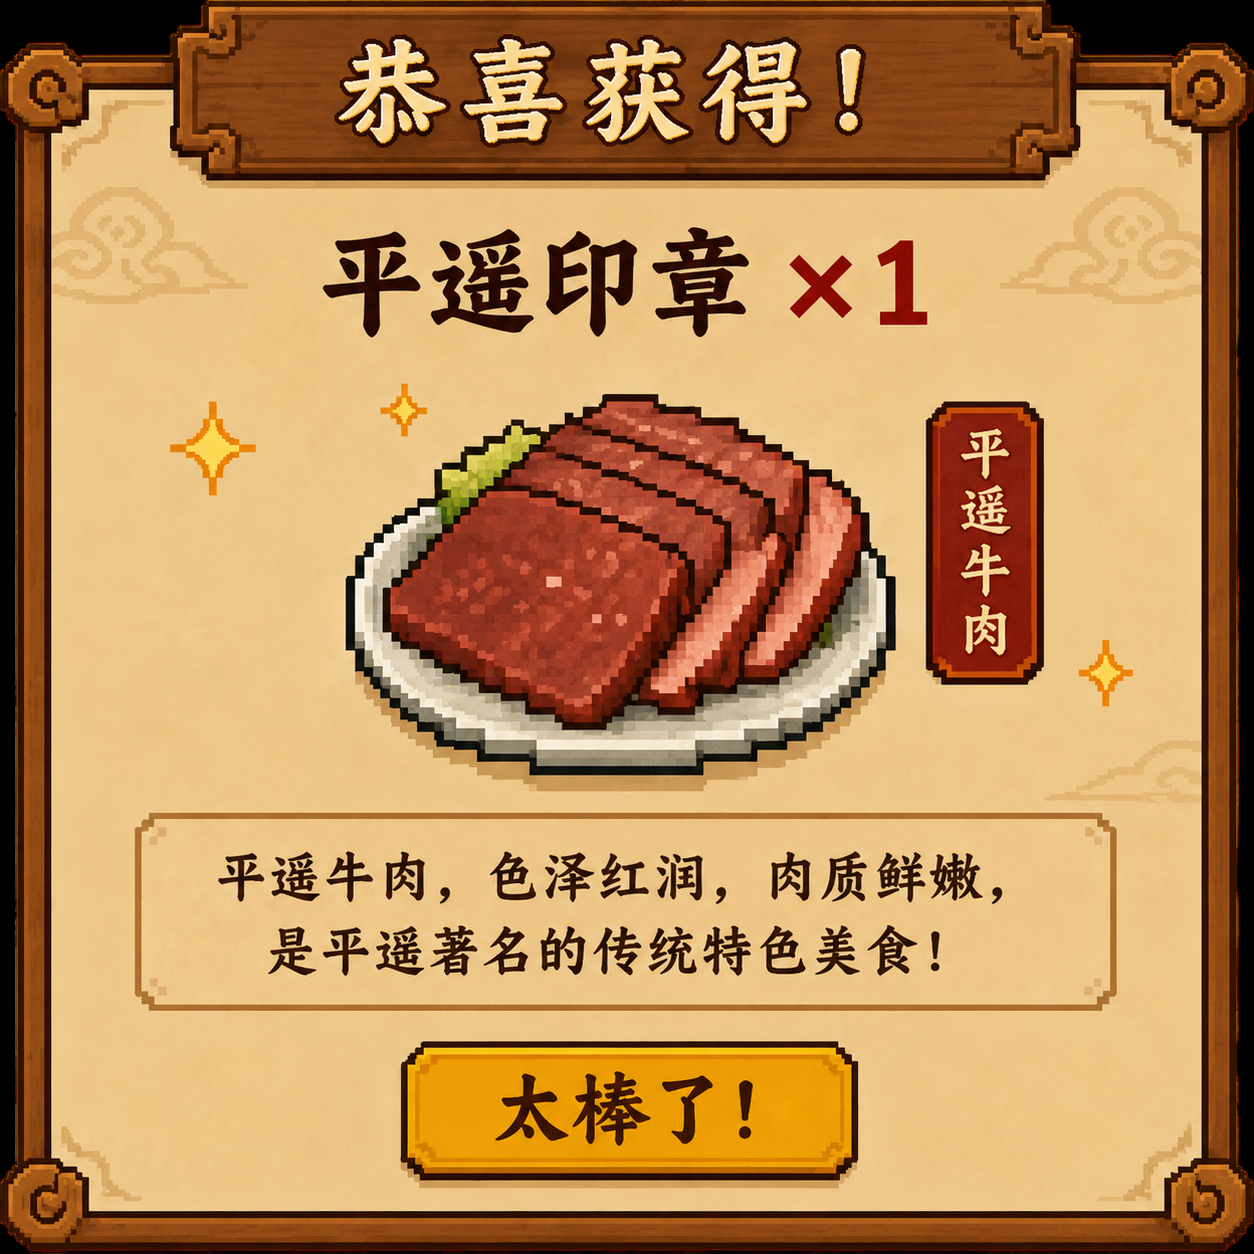
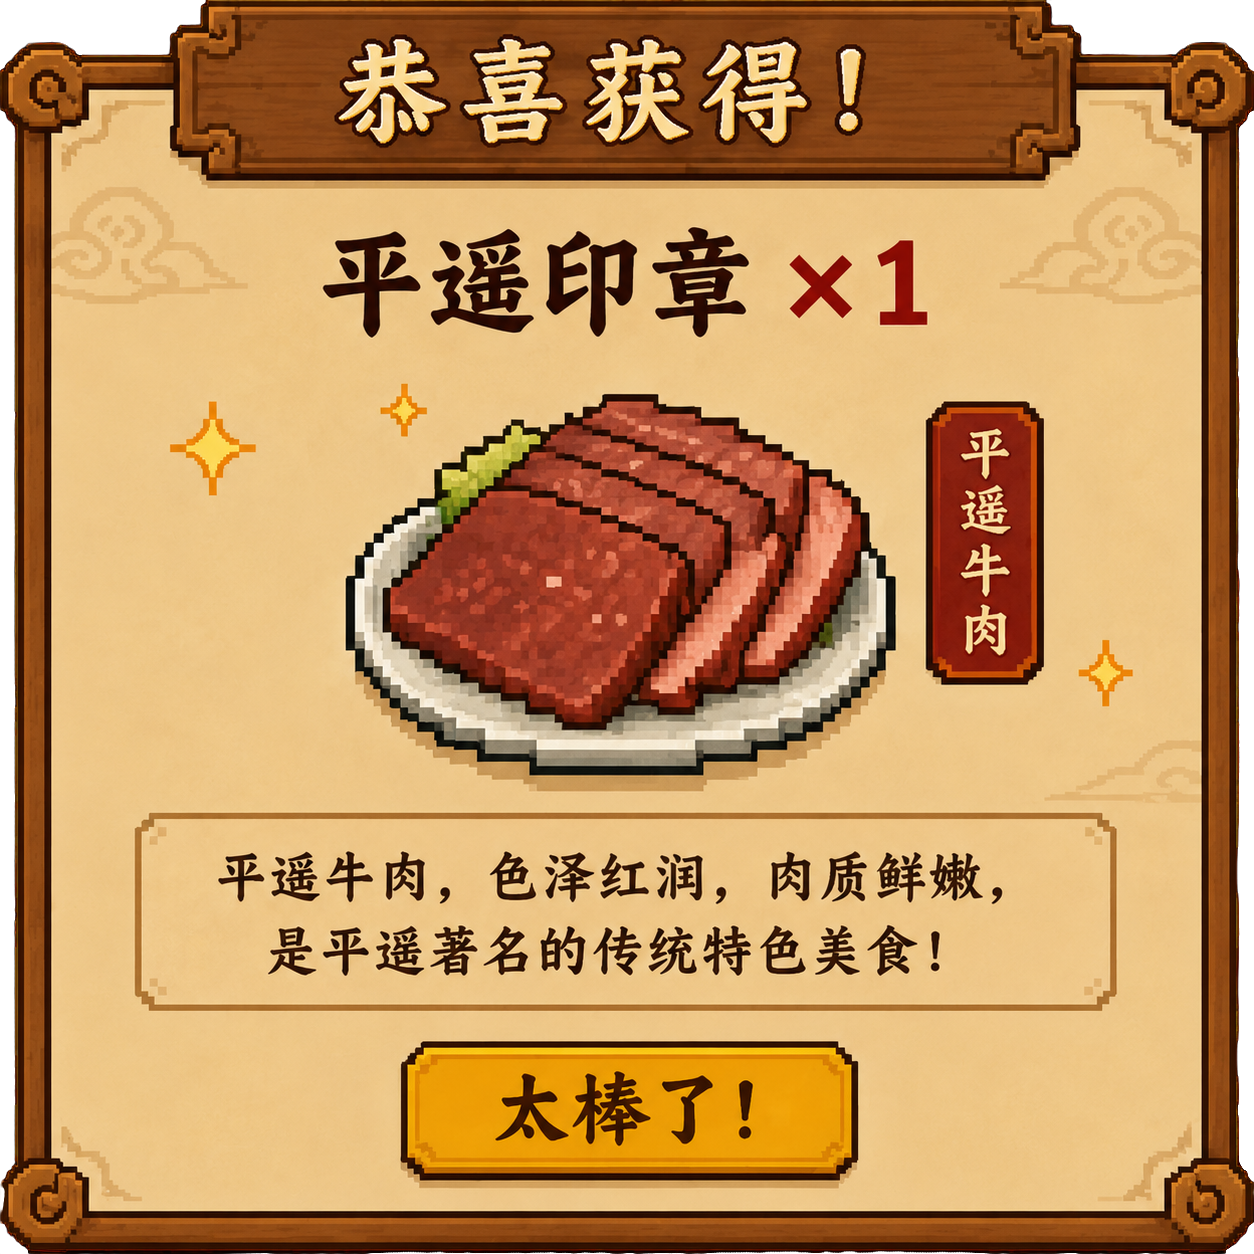
修复首页进入游戏

diff --git a/assets/main/index.js b/assets/main/index.js
@@ -6,7 +6,7 @@ System.register("chunks:///_virtual/GameModeManager.ts",["cc"],(function(e){var 
 
 System.register("chunks:///_virtual/main",["./AudioManager.ts","./DiceController.ts","./GameModeManager.ts","./MainMenuController.ts","./PathPointGenerator.ts","./PlayerController.ts","./QuestionPanelController.ts","./RewardManager.ts","./ScenicPanelController.ts","./StampPanelController.ts","./TileEventManager.ts","./WinPanelController.ts"],(function(){return{setters:[null,null,null,null,null,null,null,null,null,null,null,null],execute:function(){}}}));
 
-System.register("chunks:///_virtual/MainMenuController.ts",["./rollupPluginModLoBabelHelpers.js","cc","./GameModeManager.ts","./AudioManager.ts"],(function(e){var n,t,o,a,i,r,l,d,c,s,p,u,f,g,m,h,y,b,x,v,C,w,S,M,z,E,L,k;return{setters:[function(e){n=e.applyDecoratedDescriptor,t=e.inheritsLoose,o=e.initializerDefineProperty,a=e.assertThisInitialized,i=e.asyncToGenerator,r=e.regeneratorRuntime},function(e){l=e.cclegacy,d=e._decorator,c=e.SpriteFrame,s=e.view,p=e.macro,u=e.ResolutionPolicy,f=e.Node,g=e.UITransform,m=e.Sprite,h=e.Color,y=e.Graphics,b=e.Vec3,x=e.Label,v=e.HorizontalTextAlignment,C=e.VerticalTextAlignment,w=e.Button,S=e.director,M=e.game,z=e.Component},function(e){E=e.GameMode,L=e.GameModeManager},function(e){k=e.AudioManager}],execute:function(){var T,A,F,G,N;l._RF.push({},"1a2b3xNXm9HiYq83vASNFZ4","MainMenuController",void 0);var R=d.ccclass,B=d.property;e("MainMenuController",(T=R("MainMenuController"),A=B(c),T((N=n((G=function(e){function n(){for(var n,t=arguments.length,i=new Array(t),r=0;r<t;r++)i[r]=arguments[r];return n=e.call.apply(e,[this].concat(i))||this,o(n,"backgroundSpriteFrame",N,a(n)),n}t(n,e);var l=n.prototype;return l.onLoad=function(){this.enableLandscapeMode(),k.ensure(),this.buildMenu()},l.enableLandscapeMode=function(){var e;if(s.setOrientation(p.ORIENTATION_LANDSCAPE),s.setDesignResolutionSize(1280,720,u.SHOW_ALL),"undefined"!=typeof window&&"undefined"!=typeof document&&!document.getElementById("pingyao-landscape-guard")){var n=document.createElement("div");n.id="pingyao-landscape-guard",n.innerHTML='\n            <div class="pingyao-rotate-icon">↻</div>\n            <div class="pingyao-rotate-title">请将手机横过来</div>\n            <div class="pingyao-rotate-tip">横屏游玩，探索平遥古城</div>\n            <button id="pingyao-landscape-button">横屏开始游戏</button>\n        ';var t=document.createElement("style");t.id="pingyao-landscape-style",t.textContent='\n            #pingyao-landscape-guard {\n                position: fixed; inset: 0; z-index: 2147483647;\n                display: none; align-items: center; justify-content: center;\n                flex-direction: column; box-sizing: border-box; padding: 28px;\n                color: #4b260d; text-align: center;\n                background: radial-gradient(circle at center, #ffe7a8 0%, #e4ae55 72%, #7d421c 100%);\n                font-family: "Microsoft YaHei", "PingFang SC", sans-serif;\n            }\n            #pingyao-landscape-guard::before {\n                content: ""; position: absolute; inset: 18px;\n                border: 7px solid #74380f; border-radius: 22px;\n                box-shadow: inset 0 0 0 3px #f6cc72, 0 5px 16px rgba(0,0,0,.35);\n                pointer-events: none;\n            }\n            .pingyao-rotate-icon { font-size: 72px; line-height: 1; font-weight: bold; }\n            .pingyao-rotate-title { margin-top: 10px; font-size: 30px; font-weight: 700; }\n            .pingyao-rotate-tip { margin-top: 10px; font-size: 17px; }\n            #pingyao-landscape-button {\n                margin-top: 26px; min-width: 210px; padding: 13px 24px;\n                border: 3px solid #efc15c; border-radius: 14px;\n                color: #fff3cf; background: #963522; font-size: 20px;\n                font-weight: 700; box-shadow: 0 4px 0 #55210f;\n            }\n            @media (orientation: portrait) and (max-width: 900px) {\n                #pingyao-landscape-guard { display: flex; }\n            }\n        ',document.head.appendChild(t),document.body.appendChild(n);var o=function(){var e=i(r().mark((function e(){var n;return r().wrap((function(e){for(;;)switch(e.prev=e.next){case 0:if(e.prev=0,document.fullscreenElement||!document.documentElement.requestFullscreen){e.next=4;break}return e.next=4,document.documentElement.requestFullscreen();case 4:e.next=8;break;case 6:e.prev=6,e.t0=e.catch(0);case 8:return e.prev=8,n=screen.orientation,e.next=12,null==n||null==n.lock?void 0:n.lock("landscape");case 12:e.next=16;break;case 14:e.prev=14,e.t1=e.catch(8);case 16:case"end":return e.stop()}}),e,null,[[0,6],[8,14]])})));return function(){return e.apply(this,arguments)}}();null==(e=document.getElementById("pingyao-landscape-button"))||e.addEventListener("click",(function(){o()})),document.addEventListener("pointerup",(function(){window.innerWidth>window.innerHeight&&o()}),{once:!0})}},l.buildMenu=function(){var e=this,n=new f("Background");n.layer=this.node.layer,n.parent=this.node,n.setSiblingIndex(0),n.addComponent(g).setContentSize(1280,720);var t=n.addComponent(m);t.spriteFrame=this.backgroundSpriteFrame,t.sizeMode=m.SizeMode.CUSTOM,t.color=new h(105,92,72,255);var o=new f("Shade");o.layer=this.node.layer,o.parent=this.node,o.addComponent(g).setContentSize(1280,720);var a=o.addComponent(y);a.fillColor=new h(20,12,6,145),a.rect(-640,-360,1280,720),a.fill(),this.createLabel("TitleLabel","平遥古城文化探索之旅",52,new b(0,210,0),new h(255,239,190,255)),this.createLabel("SubtitleLabel","踏上古城漫游之路 · 收集平遥文化印章",22,new b(0,150,0),new h(240,222,180,255)),this.createButton("单人闯关",55,(function(){return e.startGame(E.Single)})),this.createButton("双人对局",-35,(function(){return e.startGame(E.Double)})),this.createButton("退出游戏",-125,(function(){return e.exitGame()})),this.createLabel("FooterLabel","平遥古城文化宣传飞行棋",18,new b(0,-300,0),new h(220,204,168,230))},l.createLabel=function(e,n,t,o,a){var i=new f(e);i.layer=this.node.layer,i.parent=this.node,i.setPosition(o),i.addComponent(g).setContentSize(1e3,t+20);var r=i.addComponent(x);return r.string=n,r.fontSize=t,r.lineHeight=t+8,r.color=a,r.horizontalAlign=v.CENTER,r.verticalAlign=C.CENTER,r.enableWrapText=!1,r},l.createButton=function(e,n,t){var o=new f(e+"Button");o.layer=this.node.layer,o.parent=this.node,o.setPosition(0,n,0),o.addComponent(g).setContentSize(300,68);var a=o.addComponent(y);a.fillColor=new h(139,51,35,245),a.strokeColor=new h(244,205,121,255),a.lineWidth=3,a.roundRect(-150,-34,300,68,14),a.fill(),a.stroke();var i=o.addComponent(w);i.transition=w.Transition.SCALE,i.zoomScale=.94,o.on(f.EventType.TOUCH_END,t,this);var r=new f("Label");r.layer=this.node.layer,r.parent=o,r.addComponent(g).setContentSize(280,60);var l=r.addComponent(x);l.string=e,l.fontSize=30,l.lineHeight=36,l.color=new h(255,244,211,255),l.horizontalAlign=v.CENTER,l.verticalAlign=C.CENTER},l.startGame=function(e){k.playClick(),L.setMode(e),S.loadScene("Game")},l.exitGame=function(){k.playClick(),M.end()},n}(z)).prototype,"backgroundSpriteFrame",[A],{configurable:!0,enumerable:!0,writable:!0,initializer:function(){return null}}),F=G))||F));l._RF.pop()}}}));
+System.register("chunks:///_virtual/MainMenuController.ts",["./rollupPluginModLoBabelHelpers.js","cc","./GameModeManager.ts","./AudioManager.ts"],(function(e){var n,t,a,i,o,r,l,d,s,c,p,u,g,f,m,h,b,y,v,x,C,w,L,S,M,z,E,k;return{setters:[function(e){n=e.applyDecoratedDescriptor,t=e.inheritsLoose,a=e.initializerDefineProperty,i=e.assertThisInitialized,o=e.asyncToGenerator,r=e.regeneratorRuntime},function(e){l=e.cclegacy,d=e._decorator,s=e.SpriteFrame,c=e.view,p=e.macro,u=e.ResolutionPolicy,g=e.Node,f=e.UITransform,m=e.Sprite,h=e.Color,b=e.Graphics,y=e.Vec3,v=e.Label,x=e.HorizontalTextAlignment,C=e.VerticalTextAlignment,w=e.Button,L=e.director,S=e.game,M=e.Component},function(e){z=e.GameMode,E=e.GameModeManager},function(e){k=e.AudioManager}],execute:function(){var T,G,A,F,N;l._RF.push({},"1a2b3xNXm9HiYq83vASNFZ4","MainMenuController",void 0);var R=d.ccclass,B=d.property;e("MainMenuController",(T=R("MainMenuController"),G=B(s),T((N=n((F=function(e){function n(){for(var n,t=arguments.length,o=new Array(t),r=0;r<t;r++)o[r]=arguments[r];return n=e.call.apply(e,[this].concat(o))||this,a(n,"backgroundSpriteFrame",N,i(n)),n.loadingLabel=null,n.isStartingGame=!1,n}t(n,e);var l=n.prototype;return l.onLoad=function(){this.enableLandscapeMode(),k.ensure(),this.buildMenu()},l.enableLandscapeMode=function(){var e;if(c.setOrientation(p.ORIENTATION_LANDSCAPE),c.setDesignResolutionSize(1280,720,u.SHOW_ALL),"undefined"!=typeof window&&"undefined"!=typeof document&&!document.getElementById("pingyao-landscape-guard")){var n=document.createElement("div");n.id="pingyao-landscape-guard",n.innerHTML='\n            <div class="pingyao-rotate-icon">↻</div>\n            <div class="pingyao-rotate-title">请将手机横过来</div>\n            <div class="pingyao-rotate-tip">横屏游玩，探索平遥古城</div>\n            <button id="pingyao-landscape-button">横屏开始游戏</button>\n        ';var t=document.createElement("style");t.id="pingyao-landscape-style",t.textContent='\n            #pingyao-landscape-guard {\n                position: fixed; inset: 0; z-index: 2147483647;\n                display: none; align-items: center; justify-content: center;\n                flex-direction: column; box-sizing: border-box; padding: 28px;\n                color: #4b260d; text-align: center;\n                background: radial-gradient(circle at center, #ffe7a8 0%, #e4ae55 72%, #7d421c 100%);\n                font-family: "Microsoft YaHei", "PingFang SC", sans-serif;\n            }\n            #pingyao-landscape-guard::before {\n                content: ""; position: absolute; inset: 18px;\n                border: 7px solid #74380f; border-radius: 22px;\n                box-shadow: inset 0 0 0 3px #f6cc72, 0 5px 16px rgba(0,0,0,.35);\n                pointer-events: none;\n            }\n            .pingyao-rotate-icon { font-size: 72px; line-height: 1; font-weight: bold; }\n            .pingyao-rotate-title { margin-top: 10px; font-size: 30px; font-weight: 700; }\n            .pingyao-rotate-tip { margin-top: 10px; font-size: 17px; }\n            #pingyao-landscape-button {\n                margin-top: 26px; min-width: 210px; padding: 13px 24px;\n                border: 3px solid #efc15c; border-radius: 14px;\n                color: #fff3cf; background: #963522; font-size: 20px;\n                font-weight: 700; box-shadow: 0 4px 0 #55210f;\n            }\n            @media (orientation: portrait) and (max-width: 900px) {\n                #pingyao-landscape-guard { display: flex; }\n            }\n        ',document.head.appendChild(t),document.body.appendChild(n);var a=function(){var e=o(r().mark((function e(){var n;return r().wrap((function(e){for(;;)switch(e.prev=e.next){case 0:if(e.prev=0,document.fullscreenElement||!document.documentElement.requestFullscreen){e.next=4;break}return e.next=4,document.documentElement.requestFullscreen();case 4:e.next=8;break;case 6:e.prev=6,e.t0=e.catch(0);case 8:return e.prev=8,n=screen.orientation,e.next=12,null==n||null==n.lock?void 0:n.lock("landscape");case 12:e.next=16;break;case 14:e.prev=14,e.t1=e.catch(8);case 16:case"end":return e.stop()}}),e,null,[[0,6],[8,14]])})));return function(){return e.apply(this,arguments)}}();null==(e=document.getElementById("pingyao-landscape-button"))||e.addEventListener("click",(function(){a()})),document.addEventListener("pointerup",(function(){window.innerWidth>window.innerHeight&&a()}),{once:!0})}},l.buildMenu=function(){var e=this,n=new g("Background");n.layer=this.node.layer,n.parent=this.node,n.setSiblingIndex(0),n.addComponent(f).setContentSize(1280,720);var t=n.addComponent(m);t.spriteFrame=this.backgroundSpriteFrame,t.sizeMode=m.SizeMode.CUSTOM,t.color=new h(105,92,72,255);var a=new g("Shade");a.layer=this.node.layer,a.parent=this.node,a.addComponent(f).setContentSize(1280,720);var i=a.addComponent(b);i.fillColor=new h(20,12,6,145),i.rect(-640,-360,1280,720),i.fill(),this.createLabel("TitleLabel","平遥古城文化探索之旅",52,new y(0,210,0),new h(255,239,190,255)),this.createLabel("SubtitleLabel","踏上古城漫游之路 · 收集平遥文化印章",22,new y(0,150,0),new h(240,222,180,255)),this.createButton("单人闯关",55,(function(){return e.startGame(z.Single)})),this.createButton("双人对局",-35,(function(){return e.startGame(z.Double)})),this.createButton("退出游戏",-125,(function(){return e.exitGame()})),this.createLabel("FooterLabel","平遥古城文化宣传飞行棋",18,new y(0,-300,0),new h(220,204,168,230))},l.createLabel=function(e,n,t,a,i){var o=new g(e);o.layer=this.node.layer,o.parent=this.node,o.setPosition(a),o.addComponent(f).setContentSize(1e3,t+20);var r=o.addComponent(v);return r.string=n,r.fontSize=t,r.lineHeight=t+8,r.color=i,r.horizontalAlign=x.CENTER,r.verticalAlign=C.CENTER,r.enableWrapText=!1,r},l.createButton=function(e,n,t){var a=new g(e+"Button");a.layer=this.node.layer,a.parent=this.node,a.setPosition(0,n,0),a.addComponent(f).setContentSize(300,68);var i=a.addComponent(b);i.fillColor=new h(139,51,35,245),i.strokeColor=new h(244,205,121,255),i.lineWidth=3,i.roundRect(-150,-34,300,68,14),i.fill(),i.stroke();var o=a.addComponent(w);o.transition=w.Transition.SCALE,o.zoomScale=.94,a.on(g.EventType.TOUCH_END,t,this);var r=new g("Label");r.layer=this.node.layer,r.parent=a,r.addComponent(f).setContentSize(280,60);var l=r.addComponent(v);l.string=e,l.fontSize=30,l.lineHeight=36,l.color=new h(255,244,211,255),l.horizontalAlign=x.CENTER,l.verticalAlign=C.CENTER},l.startGame=function(e){var n=this;this.isStartingGame||(this.isStartingGame=!0,k.playClick(),E.setMode(e),this.loadingLabel||(this.loadingLabel=this.createLabel("LoadingLabel","正在加载游戏…",22,new y(0,-215,0),new h(255,232,171,255))),this.loadingLabel.string="正在加载游戏… 0%",this.loadingLabel.node.active=!0,L.preloadScene("Game",(function(e,t){var a,i=t>0?Math.min(100,Math.round(e/t*100)):0;null!=(a=n.loadingLabel)&&a.isValid&&(n.loadingLabel.string="正在加载游戏… "+i+"%")}),(function(e){var t;if(e)return console.error("Game scene preload failed:",e),n.isStartingGame=!1,void(null!=(t=n.loadingLabel)&&t.isValid&&(n.loadingLabel.string="加载失败，请检查网络后重试"));L.loadScene("Game")})))},l.exitGame=function(){k.playClick(),S.end()},n}(M)).prototype,"backgroundSpriteFrame",[G],{configurable:!0,enumerable:!0,writable:!0,initializer:function(){return null}}),A=F))||A));l._RF.pop()}}}));
 
 System.register("chunks:///_virtual/PathPointGenerator.ts",["./rollupPluginModLoBabelHelpers.js","cc"],(function(e){var t,i,r,n,o,a,s,l,c,h,u,P,f;return{setters:[function(e){t=e.applyDecoratedDescriptor,i=e.inheritsLoose,r=e.createForOfIteratorHelperLoose,n=e.initializerDefineProperty,o=e.assertThisInitialized},function(e){a=e.cclegacy,s=e._decorator,l=e.Node,c=e.Layers,h=e.UITransform,u=e.Label,P=e.Color,f=e.Component}],execute:function(){var p,d,g,y,m,v,M;a._RF.push({},"7832ayBA1NBwJUAtOaWuM8i","PathPointGenerator",void 0);var k=s.ccclass,b=s.executeInEditMode,_=s.property;e("PathPointGenerator",k("PathPointGenerator")(p=b(!0)((g=t((d=function(e){function t(){for(var t,i=arguments.length,r=new Array(i),a=0;a<i;a++)r[a]=arguments[a];return t=e.call.apply(e,[this].concat(r))||this,n(t,"generatePoints",g,o(t)),n(t,"showMarkers",y,o(t)),n(t,"hideMarkers",m,o(t)),n(t,"clearPoints",v,o(t)),n(t,"fixPointPositions",M,o(t)),t}i(t,e);var a=t.prototype;return a.update=function(){this.generatePoints&&(this.generatePoints=!1,this.createPoints()),this.showMarkers&&(this.showMarkers=!1,this.setMarkersVisible(!0)),this.hideMarkers&&(this.hideMarkers=!1,this.setMarkersVisible(!1)),this.clearPoints&&(this.clearPoints=!1,this.removePoints()),this.fixPointPositions&&(this.fixPointPositions=!1,this.applyMarkerPositionsToPoints())},a.createPoints=function(){if(this.node.children.some((function(e){return e.name.startsWith("Point_")})))console.warn("路线节点已经存在，不再重复生成。");else{for(var e=1;e<=74;e++){var t=e.toString().padStart(2,"0"),i=new l("Point_"+t);i.layer=c.Enum.UI_2D,i.setParent(this.node),i.setPosition(0,0,0),i.addComponent(h).setContentSize(50,50),this.createMarker(i,e)}console.log("Point_01 ~ Point_73 已生成完成。")}},a.createMarker=function(e,t){var i=e.getChildByName("Marker");if(!i){(i=new l("Marker")).layer=c.Enum.UI_2D,i.setParent(e),i.setPosition(0,0,0),i.addComponent(h).setContentSize(60,40);var r=i.addComponent(u);r.string=t.toString(),r.fontSize=28,r.lineHeight=32,r.color=new P(255,0,0,255),r.horizontalAlign=u.HorizontalAlign.CENTER,r.verticalAlign=u.VerticalAlign.CENTER}i.active=!0},a.setMarkersVisible=function(e){for(var t,i=r(this.node.children);!(t=i()).done;){var n=t.value;if(n.name.startsWith("Point_")){n.layer=c.Enum.UI_2D;var o=n.name.replace("Point_",""),a=parseInt(o),s=n.getChildByName("Marker");!s&&e&&(this.createMarker(n,a),s=n.getChildByName("Marker")),s&&(s.layer=c.Enum.UI_2D,s.active=e)}}console.log(e?"定位编号已显示。":"定位编号已隐藏。")},a.removePoints=function(){for(var e,t=this.node.children.filter((function(e){return e.name.startsWith("Point_")})),i=r(t);!(e=i()).done;){e.value.destroy()}console.log("路线节点已全部删除。")},a.applyMarkerPositionsToPoints=function(){for(var e,t=r(this.node.children);!(e=t()).done;){var i=e.value;if(i.name.startsWith("Point_")){var n=i.getChildByName("Marker");if(n){var o=n.position;i.setPosition(i.position.x+o.x,i.position.y+o.y,0),n.setPosition(0,0,0)}}}console.log("Point_01 ~ Point_74 路线坐标已修正。")},t}(f)).prototype,"generatePoints",[_],{configurable:!0,enumerable:!0,writable:!0,initializer:function(){return!1}}),y=t(d.prototype,"showMarkers",[_],{configurable:!0,enumerable:!0,writable:!0,initializer:function(){return!1}}),m=t(d.prototype,"hideMarkers",[_],{configurable:!0,enumerable:!0,writable:!0,initializer:function(){return!1}}),v=t(d.prototype,"clearPoints",[_],{configurable:!0,enumerable:!0,writable:!0,initializer:function(){return!1}}),M=t(d.prototype,"fixPointPositions",[_],{configurable:!0,enumerable:!0,writable:!0,initializer:function(){return!1}}),p=d))||p)||p);a._RF.pop()}}}));
 
